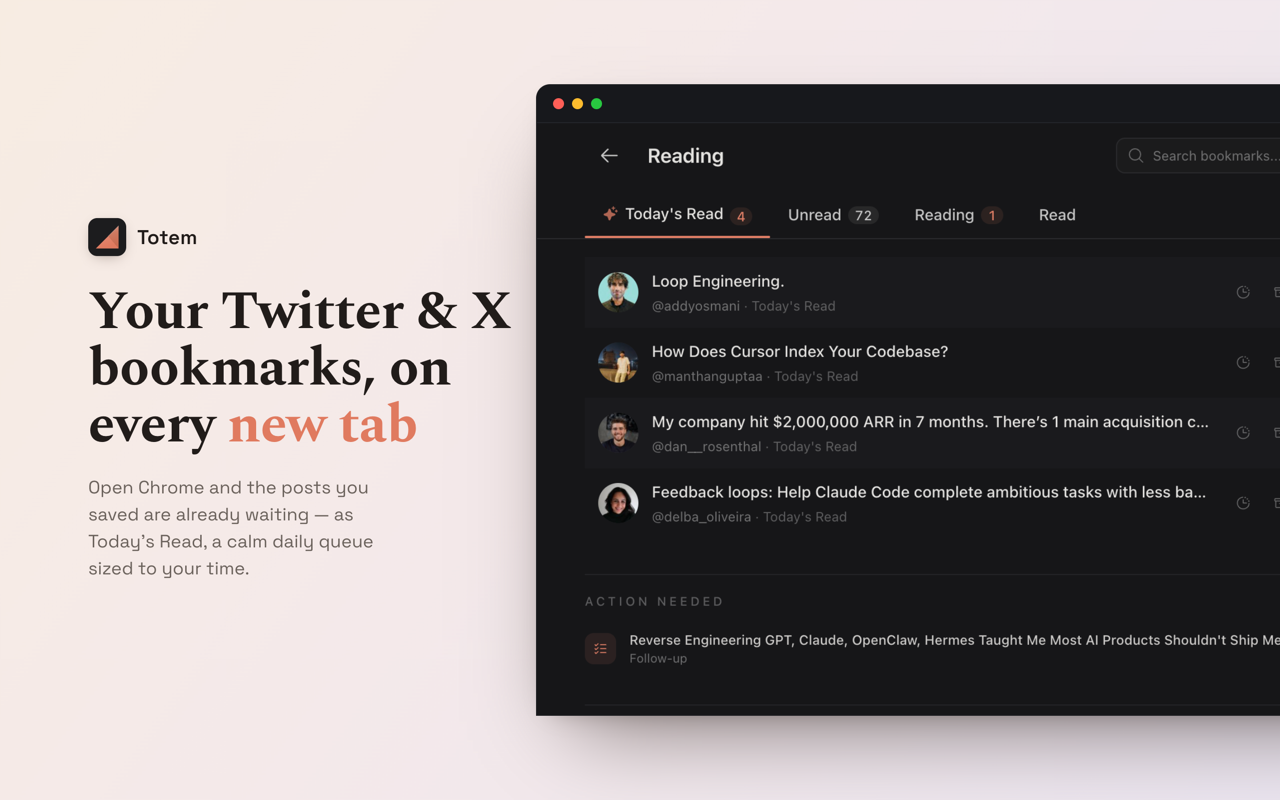
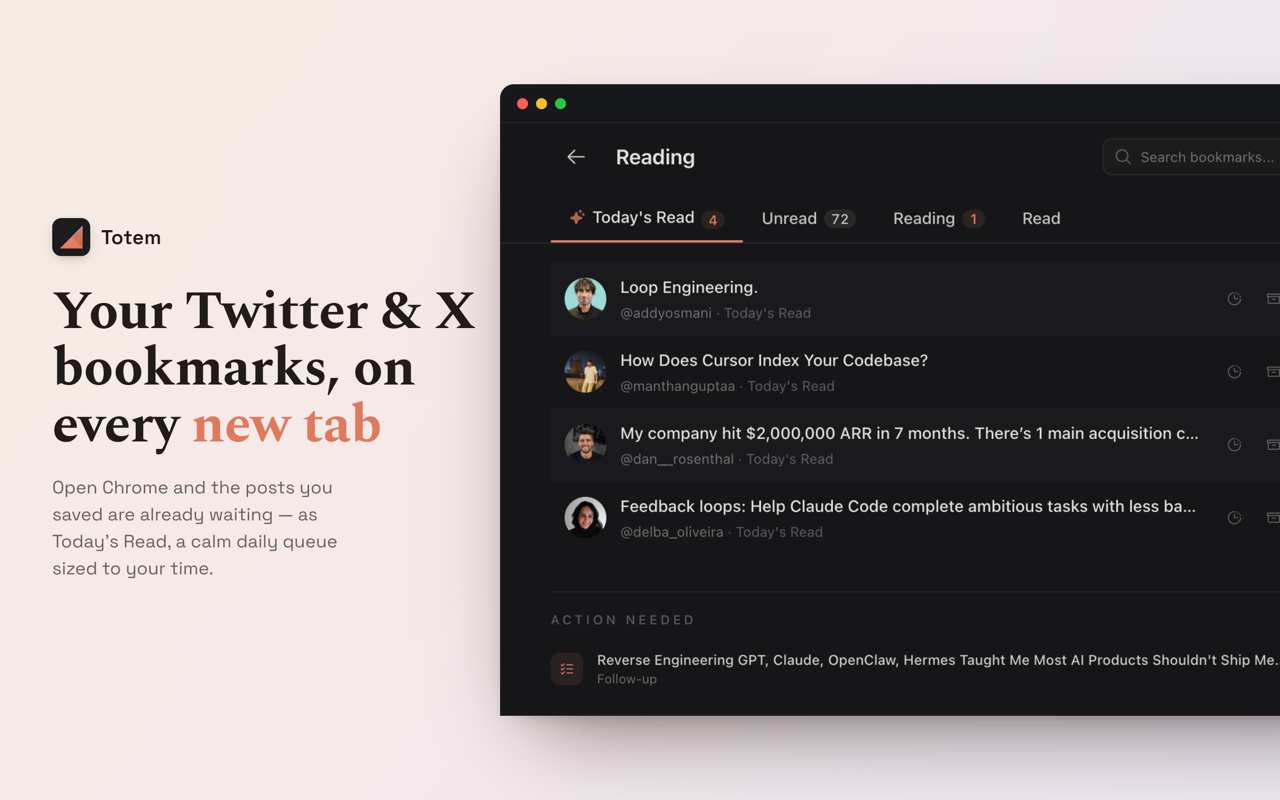
udpate: images

diff --git a/plans/research/totem-cws-listing-positioning-2026-06-26.html b/plans/research/totem-cws-listing-positioning-2026-06-26.html
@@ -410,59 +410,59 @@
     <h2 style="margin-top:40px">Detailed description</h2>
     <p>Full, feature-complete version — every feature below was verified against the current codebase (stubs like folders/tags, the saved-search UI, and Pocket import were deliberately left out). Sentence-led with scannable headers; no keyword block, so it stays clear of the spam trigger that killed 1.2.0.</p>
     <div class="desc"><span class="muted">// paste verbatim into the CWS dashboard</span>
-Totem is a local-first bookmark manager for Twitter and X, built around the one thing the others skip: actually reading what you save. It turns your Chrome new tab into a calm reading queue for your Twitter/X bookmarks — a read-it-later for tweets, threads, and X articles — so the posts you save come back to you instead of vanishing.
+Totem is a local-first bookmark manager for Twitter and X. It does the part other tools skip: it helps you actually read what you saved. Your new tab becomes a calm reading queue. Your saved tweets, threads, and X articles come back to you instead of getting lost.
 
-Most people bookmark tweets and never return. And opening X to "check your bookmarks" turns into twenty minutes of doom-scrolling. Totem fixes both: your saved posts wait for you on every new tab. No feed, no algorithm, no noise.
+Most people bookmark a tweet and never look at it again. Open X to find it and you lose twenty minutes to the feed. Totem fixes both. Your saved posts wait for you on every new tab. No feed. No algorithm. No noise.
 
 
 EVERY NEW TAB IS YOUR READING QUEUE
-• Your Twitter/X bookmarks appear automatically each time you open a tab
-• Today's Read — a small, finite set of saved posts sized to your time (5, 15, or 30 minutes a day) so you make progress instead of drowning
-• Clear reading states — Unread, Reading, and Read — with your scroll position saved and restored, right where you left off
-• Snooze a post for later, file one as a reference, flag one as "action needed," or pull in "two more" when you're on a roll
-• Pin up to 6 favorites; sort by recent, oldest, or annotated
-• Keyboard-friendly throughout (j/k to move, / to search, Space to open)
+• Your bookmarks load automatically every time you open a tab
+• Today's Read sizes your queue to the time you have: 5, 15, or 30 minutes a day. You make progress instead of drowning.
+• Every post has a clear state: Unread, Reading, or Read. Your scroll position is saved, so you pick up where you left off.
+• Snooze a post for later. File one as a reference. Flag one as "action needed." Pull in two more when you're on a roll.
+• Pin up to 6 favorites. Sort by recent, oldest, or annotated.
+• Works from the keyboard: j/k to move, / to search, Space to open
 
 
 A CLEAN READER FOR TWEETS &amp; THREADS
-• Distraction-free reader for single tweets and full Twitter threads, rebuilt in order so you read the whole thing in one place
-• Reads X long-form Articles in full — headings, lists, images, and video
-• Rich link previews, quoted tweets, reposts, images, and video
-• Jump to the next or previous bookmark, or hit "Surprise me" for a random unread
-• Add an "Open in Totem" button right on X to send any tweet straight to the reader
+• Distraction-free reader for single tweets and full threads. Threads are rebuilt in order, so you read the whole thing in one place.
+• Reads X long-form Articles in full: headings, lists, images, and video
+• Shows link previews, quoted tweets, reposts, images, and video
+• Jump to the next or previous bookmark. Or hit "Surprise me" for a random unread.
+• Add an "Open in Totem" button on X to send any tweet straight to the reader
 
 
 SEARCH EVERY TWITTER BOOKMARK YOU'VE SAVED
-Full-text search across your entire library, with fuzzy matching and did-you-mean. Narrow it with real operators:
-• from: / to: — by author
-• since: / until: / within: — by date
-• has:image, has:video, has:link, has:thread, has:article — by content type
-• min_faves:, min_retweets:, min_replies: — by engagement
+Full-text search across your whole library, with fuzzy matching and did-you-mean. Narrow it with real operators:
+• from: / to: - by author
+• since: / until: / within: - by date
+• has:image, has:video, has:link, has:thread, has:article - by content type
+• min_faves:, min_retweets:, min_replies: - by engagement
 • Combine with AND / OR / NOT, "quoted phrases," and ( ) groups
 
 
 HIGHLIGHT &amp; ANNOTATE
 • Highlight any passage in a tweet or article, in four colors
 • Add private notes to anything you save
-• Send a highlight to Grok with one click
+• Send a highlight to Grok in one click
 • Highlights and notes stay on your device
 
 
 EXPORT TWITTER BOOKMARKS &amp; OWN YOUR LIBRARY
-Your bookmarks are yours to take. Export the whole library to a single ZIP with:
-• Markdown — one clean file per bookmark, threads included
-• CSV — opens in Excel, Google Sheets, and Notion
-• JSON (JSONL) — complete, re-importable data
-• A manifest with SHA-256 checksums so you can verify the archive
-You can also copy any post as Markdown, copy it for an AI assistant, or Print to PDF — and back up and restore your full library anytime.
+Your bookmarks are yours to take. Export the whole library to a single ZIP:
+• Markdown: one clean file per bookmark, threads included
+• CSV: opens in Excel, Google Sheets, and Notion
+• JSON (JSONL): complete, re-importable data
+• A manifest with SHA-256 checksums, so you can verify the archive
+You can also copy any post as Markdown, copy it for an AI assistant, or print to PDF. Back up and restore your full library anytime.
 
 
 WORKS OFFLINE
-Totem prefetches your saved posts so you can keep reading on a plane or a weak connection. Your library lives in your browser, not on a server.
+Totem prefetches your saved posts. Keep reading on a plane or a weak connection. Your library lives in your browser, not on a server.
 
 
 A CALMER NEW TAB
-• A quiet clock and an optional web-search box (Google, Bing, DuckDuckGo, Brave, Ecosia, Yahoo, or your browser default)
+• A quiet clock and an optional search box (Google, Bing, DuckDuckGo, Brave, Ecosia, Yahoo, or your browser default)
 • Optional Quick Links to your most-visited sites
 • Curated wallpapers or generated gradients
 • Light, dark, and system themes
@@ -471,16 +471,16 @@ A CALMER NEW TAB
 
 PRIVATE BY DESIGN
 • Local-first: no Totem account, no login, no server
-• Your bookmarks, highlights, and notes are stored in your browser's IndexedDB
+• Your bookmarks, highlights, and notes live in your browser's IndexedDB
 • We can't see your data, because we never receive it
-• Signed into more than one X account? Each gets its own separate local library
-• Totem uses your existing X session only to sync your own bookmarks — no X Premium required
+• Signed into more than one X account? Each one gets its own local library.
+• Totem uses your existing X session to sync your own bookmarks. No X Premium required.
 
 
 WHY TOTEM vs other Twitter bookmark managers
-• It lives on your new tab. Other bookmark managers are websites you have to remember to open — Totem shows up on its own, every time you start browsing.
-• It's built for reading, not just filing. Most tools help you store and export; Totem helps you actually finish what you saved.
-• No bookmark limit, and no subscription to search your own saves.
+• It lives on your new tab. Other managers are websites you have to remember to open. Totem shows up on its own, every time you start browsing.
+• It's built for reading, not just filing. Most tools help you store and export. Totem helps you finish what you saved.
+• No bookmark limit. No subscription to search your own saves.
 • Local-first and private by default.
 
 

diff --git a/images-for-promotions/generator/frame.css b/images-for-promotions/generator/frame.css
@@ -24,7 +24,7 @@ html, body { width: 1280px; height: 800px; overflow: hidden; }
 }
 
 /* Left copy column */
-.copy { position: absolute; left: 88px; top: 50%; transform: translateY(-50%); width: 430px; z-index: 3; }
+.copy { position: absolute; left: 52px; top: 50%; transform: translateY(-50%); width: 430px; z-index: 3; }
 .logo-row { display: flex; align-items: center; gap: 11px; margin-bottom: 28px; }
 .logo-row svg { width: 38px; height: 38px; border-radius: 9px; display: block; box-shadow: 0 4px 14px -6px rgba(40,20,10,.5); }
 .logo-row .wm { font-weight: 600; font-size: 20px; letter-spacing: .2px; color: var(--ink); }
@@ -35,7 +35,7 @@ html, body { width: 1280px; height: 800px; overflow: hidden; }
 /* Browser window — bleeds off the right edge; holds the product screenshot.
    Wider/larger than before so the UI reads bigger and the left gap is smaller. */
 .window {
-  position: absolute; top: 84px; left: 536px; width: 936px; height: 632px;
+  position: absolute; top: 84px; left: 500px; width: 972px; height: 632px;
   background: #0e0f12; border-radius: 14px 14px 0 0;
   box-shadow: 0 40px 90px -36px rgba(30,18,12,.62), 0 8px 24px -16px rgba(30,18,12,.4);
   overflow: hidden; z-index: 2; border: 1px solid rgba(255,255,255,.06);
